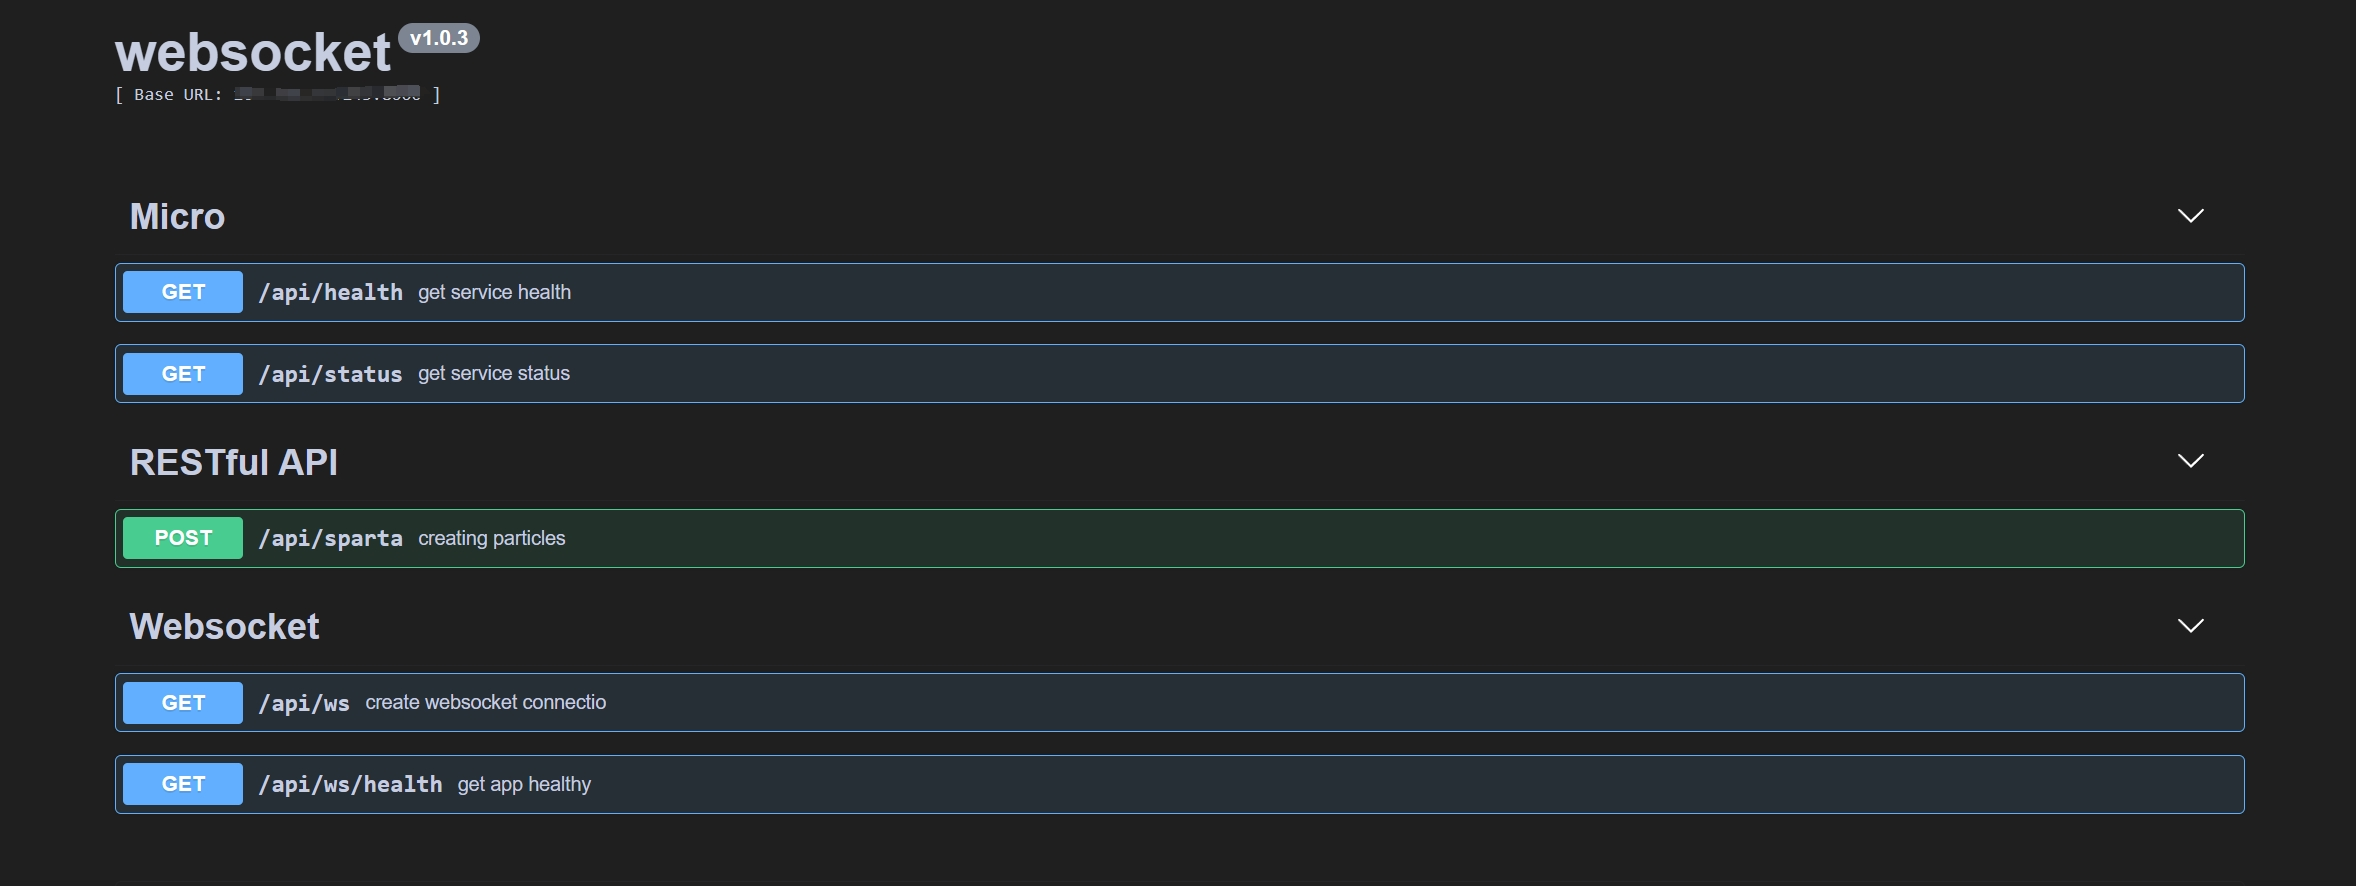
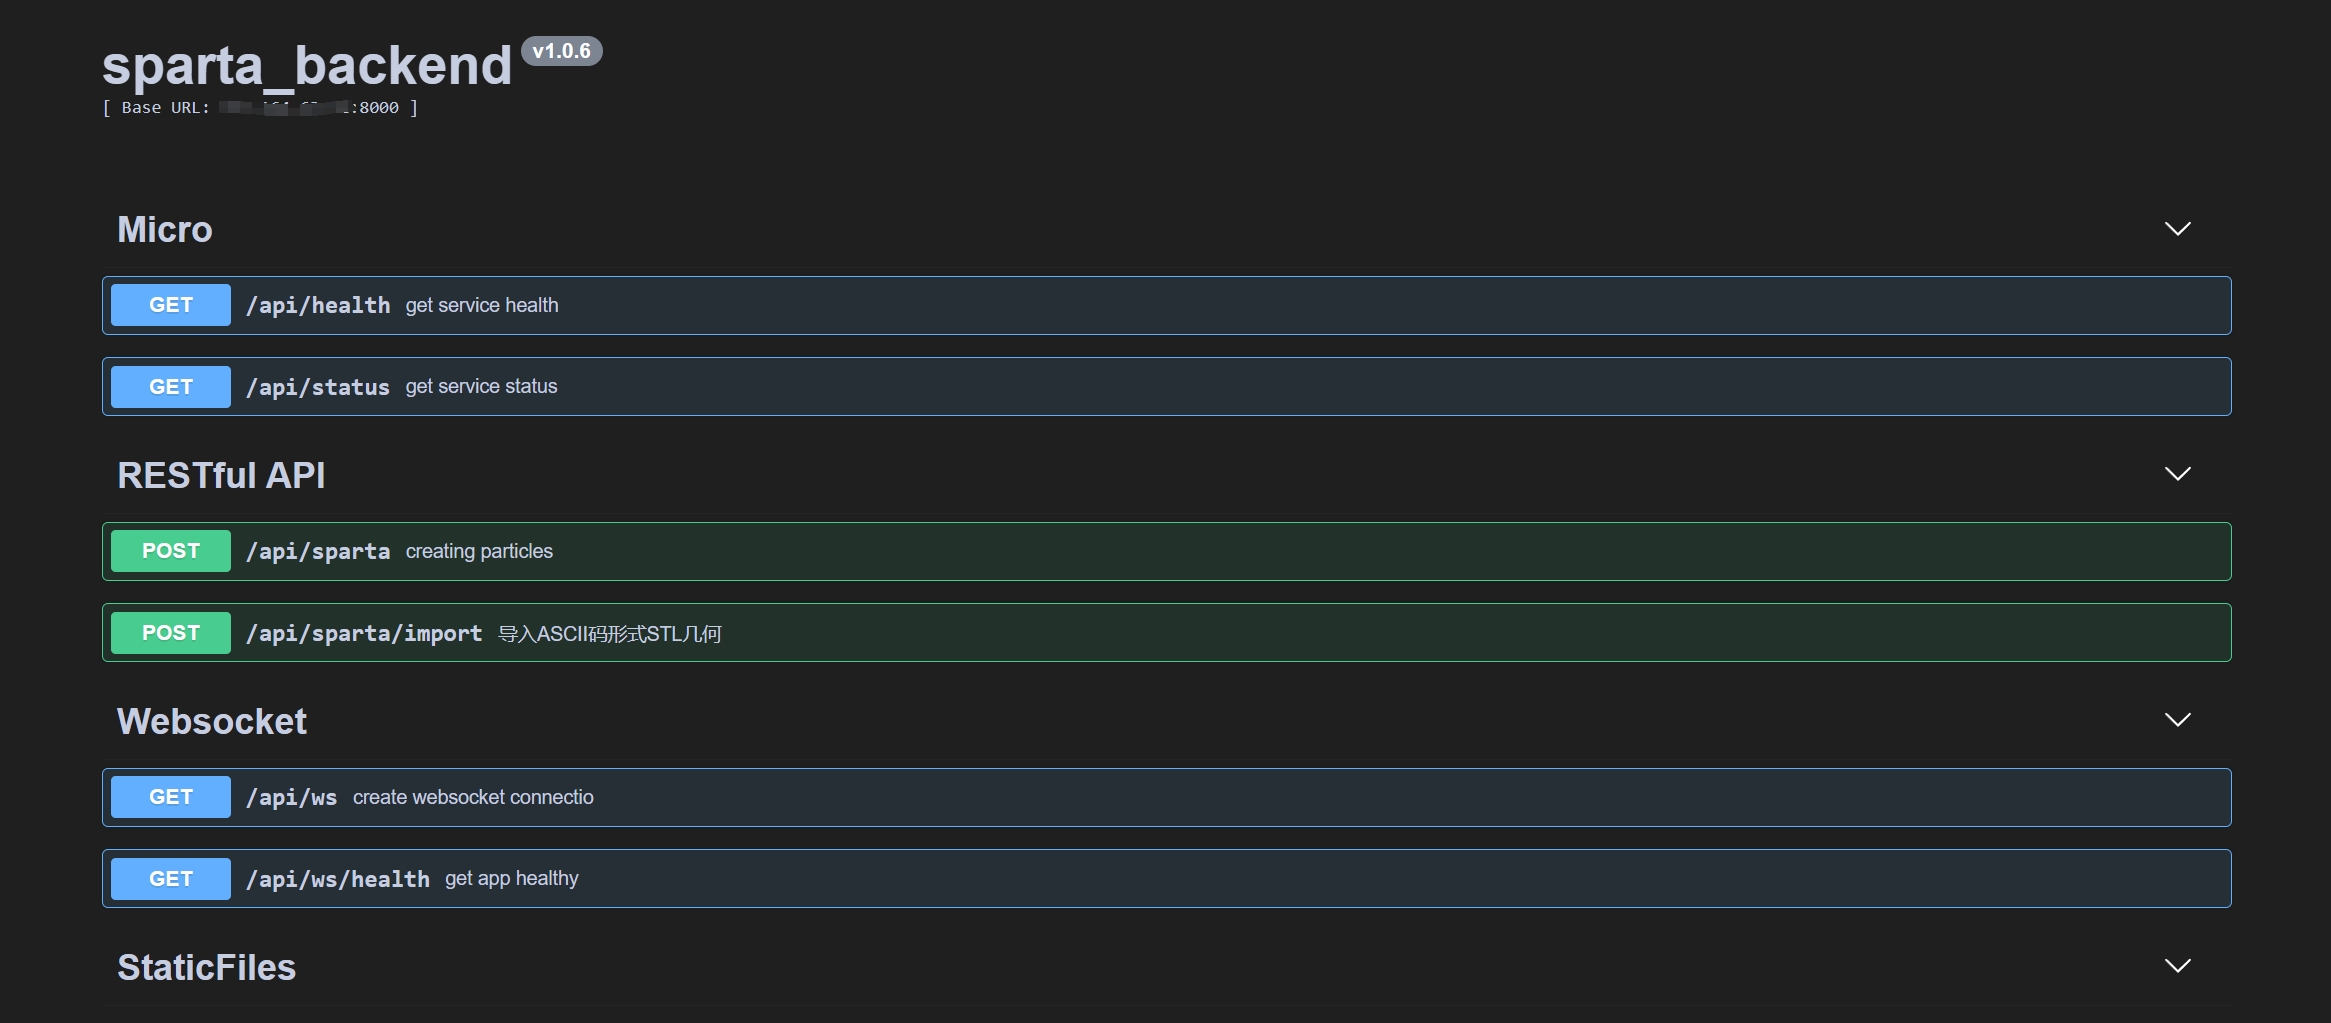
fix: rename project name

Changed region(s): [[0.0309, 0.2133, 0.9575, 0.9752], [0.0309, 0.0305, 0.278, 0.1219]]

diff --git a/pkg/component/component.go b/pkg/component/component.go
@@ -3,7 +3,7 @@ package component
 import (
 	"context"
 
-	"github.com/kiga-hub/websocket/pkg/service"
+	"github.com/kiga-hub/sparta_backend/pkg/service"
 
 	"github.com/davecgh/go-spew/spew"
 	platformConf "github.com/kiga-hub/arc/conf"
@@ -11,7 +11,7 @@ import (
 	logConf "github.com/kiga-hub/arc/logging/conf"
 	"github.com/kiga-hub/arc/micro"
 	"github.com/kiga-hub/arc/micro/conf"
-	"github.com/kiga-hub/websocket/pkg/api"
+	"github.com/kiga-hub/sparta_backend/pkg/api"
 	"github.com/pangpanglabs/echoswagger/v2"
 )
 

diff --git a/cmd/server.go b/cmd/server.go
@@ -11,7 +11,7 @@ import (
 	"github.com/kiga-hub/arc/tracing"
 	"github.com/spf13/cobra"
 
-	"github.com/kiga-hub/websocket/pkg/component"
+	"github.com/kiga-hub/sparta_backend/pkg/component"
 )
 
 func init() {
@@ -22,7 +22,7 @@ func init() {
 // serverCmd .
 var serverCmd = &cobra.Command{
 	Use:   "run",
-	Short: "run websocket",
+	Short: "run sparta_backend",
 	Run:   run,
 }
 

diff --git a/pkg/api/sparta.go b/pkg/api/sparta.go
@@ -4,8 +4,8 @@ import (
 	"errors"
 	"net/http"
 
-	"github.com/kiga-hub/websocket/pkg/models"
-	"github.com/kiga-hub/websocket/pkg/utils"
+	"github.com/kiga-hub/sparta_backend/pkg/models"
+	"github.com/kiga-hub/sparta_backend/pkg/utils"
 	"github.com/labstack/echo/v4"
 	"github.com/pangpanglabs/echoswagger/v2"
 )

diff --git a/pkg/service/sparta.go b/pkg/service/sparta.go
@@ -7,8 +7,8 @@ import (
 	"os"
 	"path/filepath"
 
-	"github.com/kiga-hub/websocket/pkg/models"
-	"github.com/kiga-hub/websocket/pkg/utils"
+	"github.com/kiga-hub/sparta_backend/pkg/models"
+	"github.com/kiga-hub/sparta_backend/pkg/utils"
 	"github.com/labstack/echo/v4"
 )
 

diff --git a/script/main.go b/script/main.go
@@ -8,7 +8,7 @@ import (
 
 func main() {
 	cmd := exec.Command("python", "./vtk_version.py")
-	cmd.Dir = "/home/workspace/project/websocket/script"
+	cmd.Dir = "/home/workspace/project/sparta_backend/script"
 
 	output, err := cmd.CombinedOutput()
 	if err != nil {

diff --git a/pkg/api/websocket.go b/pkg/api/websocket.go
@@ -4,7 +4,7 @@ import (
 	"net/http"
 
 	"github.com/gorilla/websocket"
-	"github.com/kiga-hub/websocket/pkg/utils"
+	"github.com/kiga-hub/sparta_backend/pkg/utils"
 	"github.com/labstack/echo/v4"
 	"github.com/pangpanglabs/echoswagger/v2"
 )

diff --git a/cmd/root.go b/cmd/root.go
@@ -13,7 +13,7 @@ var (
 
 // rootCmd represents the base command when called without any subcommands
 var rootCmd = &cobra.Command{
-	Use:              "websocket",
+	Use:              "sparta_backend",
 	TraverseChildren: true,
 }
 

diff --git a/pkg/api/options.go b/pkg/api/options.go
@@ -2,7 +2,7 @@ package api
 
 import (
 	"github.com/kiga-hub/arc/logging"
-	"github.com/kiga-hub/websocket/pkg/service"
+	"github.com/kiga-hub/sparta_backend/pkg/service"
 )
 
 // Option is a function that will set up option.

diff --git a/pkg/api/server.go b/pkg/api/server.go
@@ -2,7 +2,7 @@ package api
 
 import (
 	"github.com/kiga-hub/arc/logging"
-	"github.com/kiga-hub/websocket/pkg/service"
+	"github.com/kiga-hub/sparta_backend/pkg/service"
 	"github.com/pangpanglabs/echoswagger/v2"
 )
 

diff --git a/pkg/ws/conn.go b/pkg/ws/conn.go
@@ -12,7 +12,7 @@ import (
 
 	"github.com/gorilla/websocket"
 	"github.com/kiga-hub/arc/logging"
-	"github.com/kiga-hub/websocket/pkg/utils"
+	"github.com/kiga-hub/sparta_backend/pkg/utils"
 )
 
 const (

diff --git a/pkg/service/websocket.go b/pkg/service/websocket.go
@@ -2,7 +2,7 @@ package service
 
 import (
 	"github.com/gorilla/websocket"
-	"github.com/kiga-hub/websocket/pkg/ws"
+	"github.com/kiga-hub/sparta_backend/pkg/ws"
 	"github.com/labstack/echo/v4"
 )
 

diff --git a/main.go b/main.go
@@ -4,7 +4,7 @@ import (
 	"fmt"
 
 	"github.com/davecgh/go-spew/spew"
-	"github.com/kiga-hub/websocket/cmd"
+	"github.com/kiga-hub/sparta_backend/cmd"
 	_ "go.uber.org/automaxprocs"
 )
 
